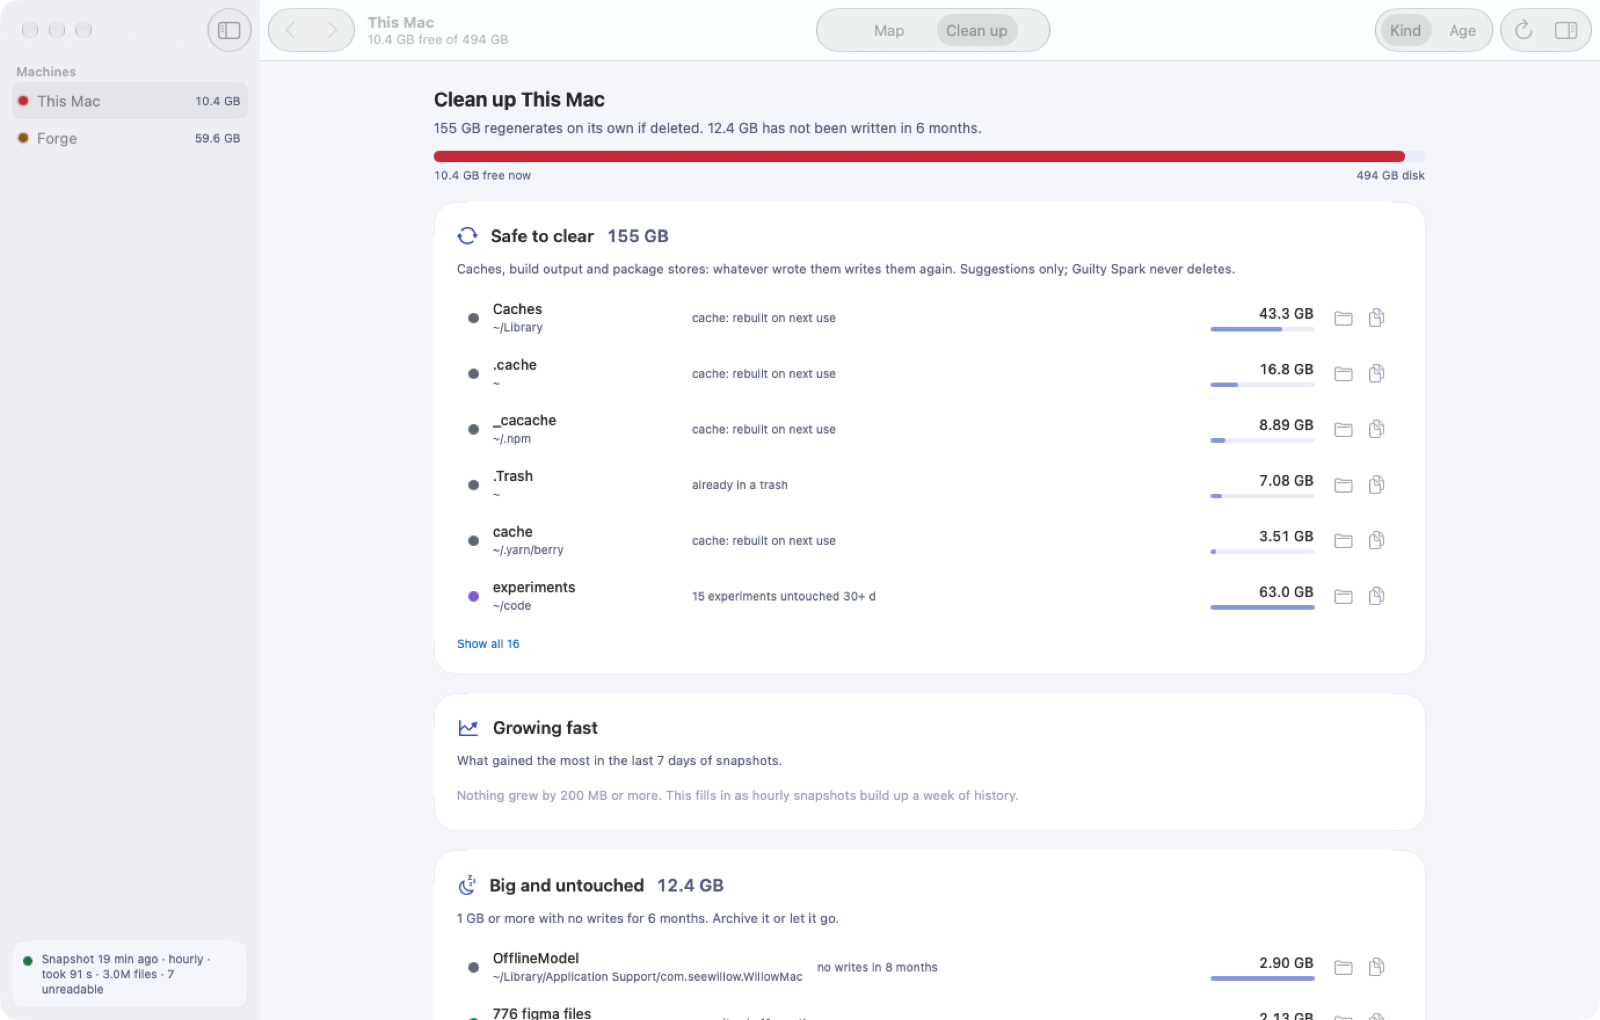
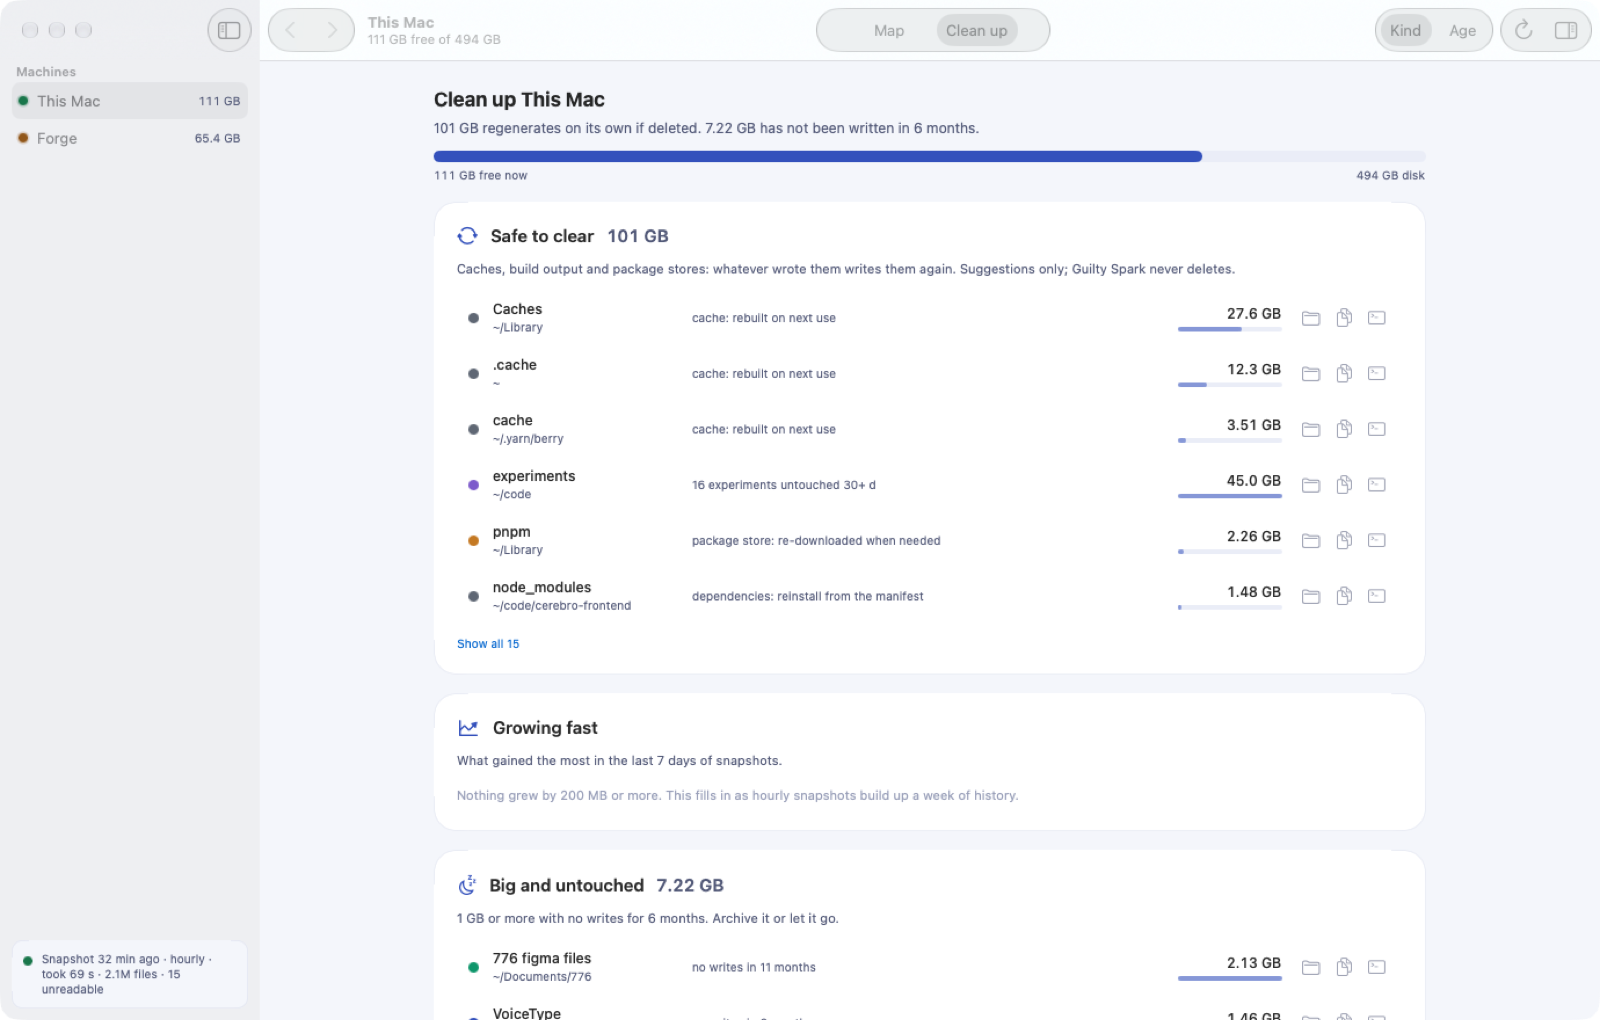
Guilty Spark: new screenshots, docs for Copy Delete Command
- Screenshots retaken on the current build and data (after tonight's
  cleanup: 108 GB free, 10 snapshots of history in the chart).
- Selection card: Copy Delete Command gets its own row (four controls
  did not fit the 330 pt panel: 'Show…', 'Cop…'), and only for things
  that can be deleted (not the folder being viewed).
- README and GUILTY-SPARK.md describe Copy Delete Command; the
  verification table lists the shell-quoting check. Harness: pass.

Claude-Session: https://claude.ai/code/session_01EemeL41gGTx7E24KjkJJQt

diff --git a/apps/mac/Sources/Views.swift b/apps/mac/Sources/Views.swift
@@ -431,14 +431,18 @@ struct SelectionCard: View {
                     Button("Show in Finder") { showInFinder(path) }
                         .disabled(model.host != "local")
                     Button("Copy Path") { copyPath(path) }
+                    Spacer()
+                }
+                .controlSize(.small)
+                if !isRoot {
+                    // Its own row: three buttons and a menu do not fit the panel's width.
                     Menu("Copy Delete Command") {
                         Button(deleteCommand(path)) { copyCommand(deleteCommand(path)); model.show("Copied: \(deleteCommand(path))") }
                         Button("rm -rf (permanent)") { copyCommand(deleteCommand(path, permanent: true)); model.show("Copied a permanent delete command") }
                     }
+                    .controlSize(.small)
                     .fixedSize()
-                    Spacer()
                 }
-                .controlSize(.small)
             } else {
                 Text(s.node == nil ? "—" : "Nothing selected.").foregroundStyle(Theme.muted)
             }

diff --git a/GUILTY-SPARK.md b/GUILTY-SPARK.md
@@ -62,6 +62,7 @@ Every claim here has a command. A claim whose check has not been run reads UNVER
 | Snapper peak memory | `/usr/bin/time -l ~/.local/bin/disk-snap --dir /tmp/x` | 146 MB, 2.9M files, 19 s (2026-09-24) |
 | Snapshots run hourly on both machines | `sqlite3 ~/Library/Application\ Support/disk/disk.db "select datetime(taken_at,'unixepoch','localtime') from snapshots"` | hourly since 16:32 (laptop) and 16:45 (Forge), 2026-09-24. One laptop run took 40 min at load 138; launchd skips an hour rather than overlap. |
 | Full Disk Access survives rebuilds | `launchctl submit -l probe -- ~/.local/bin/disk-snap --probe` | true on both, after 4 rebuilds (2026-09-24) |
+| Copy Delete Command addresses exactly the chosen path | harness step `delete command quoting` (a path with spaces, quotes, `$` and backticks round-trips through `/bin/sh`) | pass 2026-09-24 |
 | Browser page works on desktop and phone, read-only | `PLAYWRIGHT=… node crates/disk-web/web-check.mjs` | 13/13 pass (2026-09-24) |
 | Growing fast and Came back are useful on real data | the week check: `curl -s 127.0.0.1:7321/api/h/local/suggest` after 7 days of snapshots | UNVERIFIED (needs history until 2026-10-01) |
 | Strict lints | `cargo clippy -p disk-web -p disktree-core --all-targets -- -D warnings` | 0 findings (2026-09-24). The upstream GPUI app was not built here (Linux only). |

diff --git a/README.md b/README.md
@@ -16,7 +16,9 @@
 > - **Guilty Spark.app**: a native SwiftUI app. It has a Canvas treemap you click into
 >   and back out of, an inspector, and a **Clean up** page that ranks what to delete and
 >   why: safe to clear, growing fast, big and untouched, came back. Every suggestion
->   offers Show in Finder and Copy Path; the delete is yours. The same view is also a
+>   offers Show in Finder, Copy Path and **Copy Delete Command**: the owner's cleanup for
+>   a known cache (`npm cache clean --force`, `uv cache clean`, …) or `trash '<path>'`,
+>   for you to paste. The app never deletes anything itself. The same view is also a
 >   browser page at `http://127.0.0.1:7321`.
 > - **Core additions**: `ScanOptions::exclude` lists a directory without opening it.
 >   `ScanOptions::fold_below` sums small files and small directory subtrees into one
@@ -25,7 +27,7 @@
 >
 > ![Guilty Spark: a home directory as a treemap, with free space, the inspector and 7 days of history](assets/guilty-spark/map.png)
 >
-> | Clean up: what to delete, and why | Clicked into a folder | Dark |
+> | Clean up: what to delete, and why (each row: Finder, copy path, copy delete command) | Clicked into a folder | Dark |
 > |---|---|---|
 > | ![Clean up](assets/guilty-spark/cleanup.png) | ![Zoomed](assets/guilty-spark/zoom.png) | ![Dark](assets/guilty-spark/dark.png) |
 >
